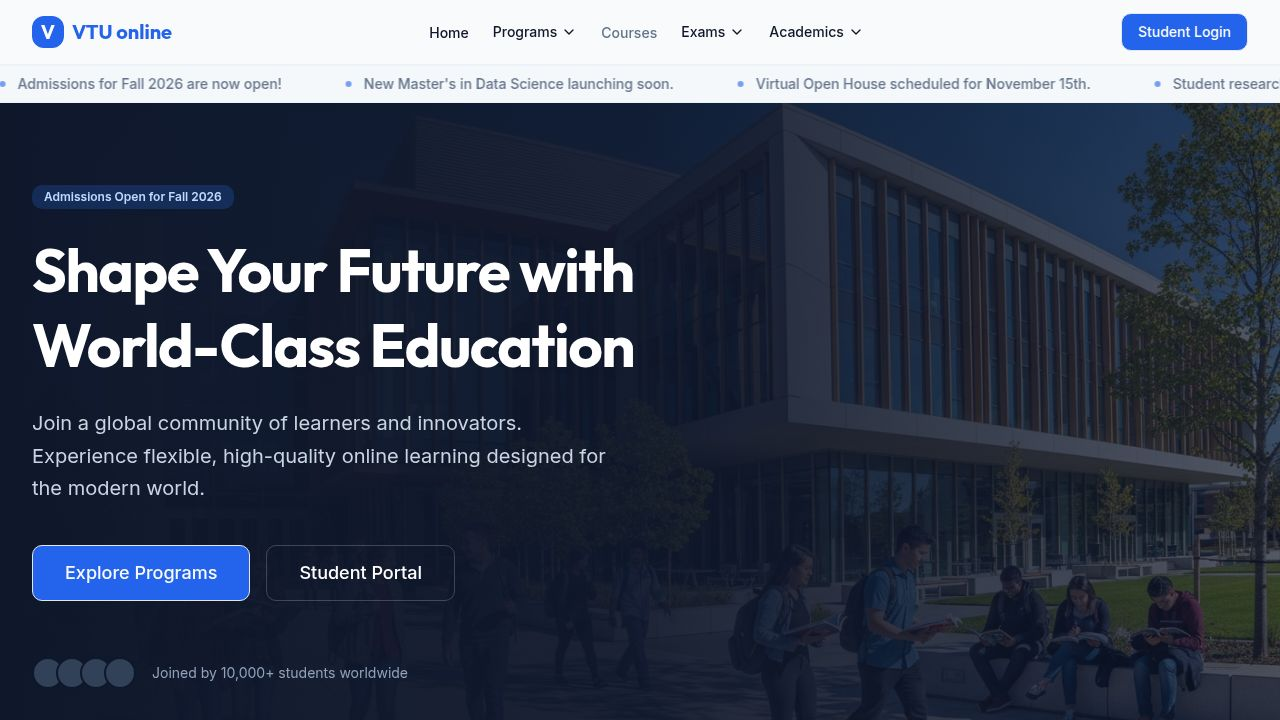
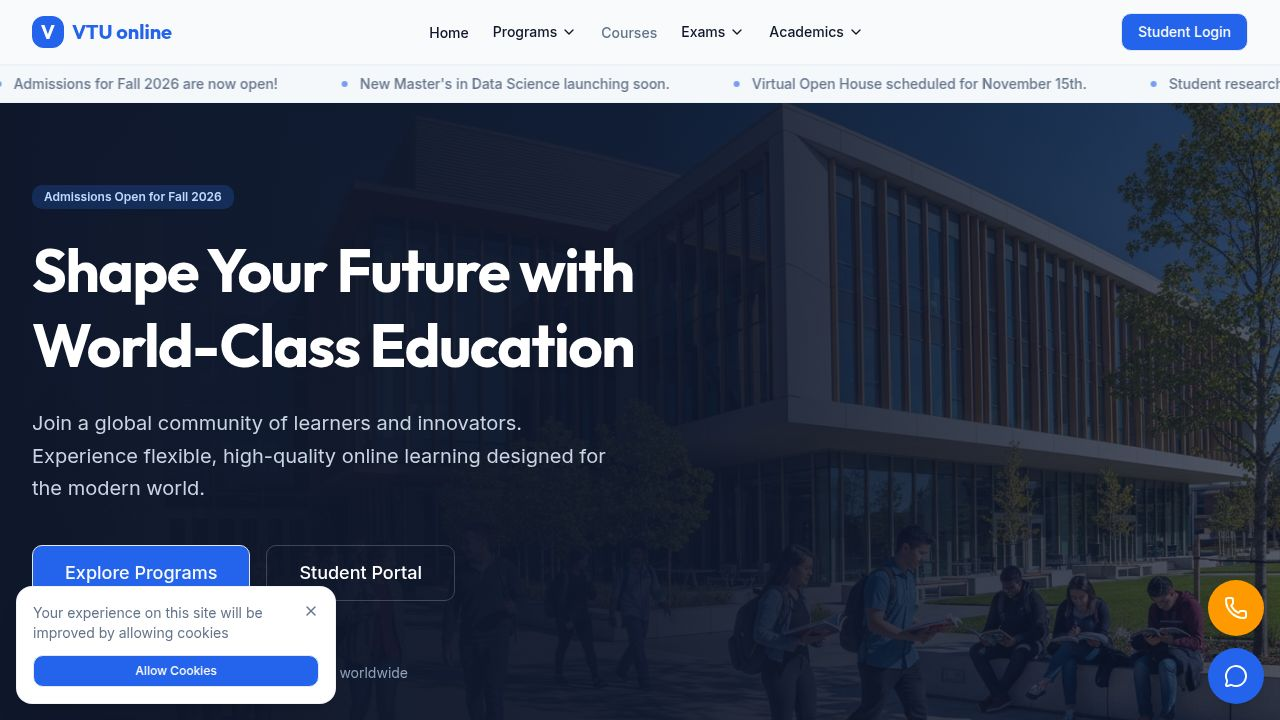
Add interactive floating elements to the landing page
Introduces CookieConsent, FloatingButtons, and ChatWidget components to LandingPage.tsx, enabling cookie management, call/chat buttons, and a functional chat panel with form submission.

Replit-Commit-Author: Agent
Replit-Commit-Session-Id: 80f406d5-0d03-458c-a75a-654c237fc839
Replit-Commit-Checkpoint-Type: full_checkpoint
Replit-Commit-Event-Id: 848407d9-8b96-41d1-af36-81d8fbbae387
Replit-Commit-Screenshot-Url: https://storage.googleapis.com/screenshot-production-us-central1/d19b8a95-6b36-4bbb-87ff-ddd33fc5f158/80f406d5-0d03-458c-a75a-654c237fc839/SRGrVkC
Replit-Helium-Checkpoint-Created: true

diff --git a/client/src/components/floating/ChatWidget.tsx b/client/src/components/floating/ChatWidget.tsx
@@ -1,0 +1,137 @@
+import { useState } from "react";
+import { Button } from "@/components/ui/button";
+import { Input } from "@/components/ui/input";
+import { Textarea } from "@/components/ui/textarea";
+import { X, Send, CheckCircle2 } from "lucide-react";
+
+interface ChatWidgetProps {
+  isOpen: boolean;
+  onClose: () => void;
+}
+
+export default function ChatWidget({ isOpen, onClose }: ChatWidgetProps) {
+  const [formData, setFormData] = useState({ name: "", email: "", message: "" });
+  const [errors, setErrors] = useState<Record<string, string>>({});
+  const [submitted, setSubmitted] = useState(false);
+
+  const validate = () => {
+    const newErrors: Record<string, string> = {};
+    if (!formData.name.trim()) newErrors.name = "Name is required";
+    if (!formData.email.trim()) newErrors.email = "Email is required";
+    else if (!/\S+@\S+\.\S+/.test(formData.email)) newErrors.email = "Invalid email";
+    if (!formData.message.trim()) newErrors.message = "Message is required";
+    setErrors(newErrors);
+    return Object.keys(newErrors).length === 0;
+  };
+
+  const handleSubmit = (e: React.FormEvent) => {
+    e.preventDefault();
+    if (validate()) {
+      setSubmitted(true);
+      setTimeout(() => {
+        setSubmitted(false);
+        setFormData({ name: "", email: "", message: "" });
+      }, 2500);
+    }
+  };
+
+  const handleChange = (e: React.ChangeEvent<HTMLInputElement | HTMLTextAreaElement>) => {
+    const { name, value } = e.target;
+    setFormData(prev => ({ ...prev, [name]: value }));
+    if (errors[name]) {
+      setErrors(prev => ({ ...prev, [name]: "" }));
+    }
+  };
+
+  if (!isOpen) return null;
+
+  return (
+    <div 
+      className="fixed bottom-24 right-4 z-50 w-[340px] max-w-[calc(100vw-2rem)] animate-in slide-in-from-bottom-4 fade-in duration-300"
+      data-testid="chat-widget"
+    >
+      <div className="bg-white dark:bg-slate-800 rounded-2xl shadow-2xl overflow-hidden border border-border/30">
+        {/* Header */}
+        <div className="bg-emerald-600 p-4 relative">
+          <button
+            onClick={onClose}
+            className="absolute top-3 right-3 text-white/80 hover:text-white transition-colors p-1"
+            aria-label="Close chat"
+            data-testid="chat-close"
+          >
+            <X className="size-5" />
+          </button>
+          <p className="text-white text-sm text-center pr-6 leading-relaxed">
+            Please fill out the form below and we will get back to you as soon as possible.
+          </p>
+        </div>
+
+        {/* Form Body */}
+        <div className="p-5">
+          {submitted ? (
+            <div className="text-center py-8 animate-in fade-in zoom-in duration-300">
+              <div className="size-16 rounded-full bg-emerald-100 dark:bg-emerald-900/30 flex items-center justify-center mx-auto mb-4">
+                <CheckCircle2 className="size-8 text-emerald-600" />
+              </div>
+              <h3 className="text-lg font-semibold text-foreground mb-1">Message Sent!</h3>
+              <p className="text-sm text-muted-foreground">We'll get back to you soon.</p>
+            </div>
+          ) : (
+            <form onSubmit={handleSubmit} className="space-y-4">
+              <div>
+                <Input
+                  name="name"
+                  placeholder="Name *"
+                  value={formData.name}
+                  onChange={handleChange}
+                  className={errors.name ? "border-red-500 focus-visible:ring-red-500" : ""}
+                  data-testid="chat-input-name"
+                />
+                {errors.name && <p className="text-xs text-red-500 mt-1">{errors.name}</p>}
+              </div>
+              <div>
+                <Input
+                  name="email"
+                  type="email"
+                  placeholder="Email *"
+                  value={formData.email}
+                  onChange={handleChange}
+                  className={errors.email ? "border-red-500 focus-visible:ring-red-500" : ""}
+                  data-testid="chat-input-email"
+                />
+                {errors.email && <p className="text-xs text-red-500 mt-1">{errors.email}</p>}
+              </div>
+              <div>
+                <Textarea
+                  name="message"
+                  placeholder="Message *"
+                  rows={4}
+                  value={formData.message}
+                  onChange={handleChange}
+                  className={`resize-none ${errors.message ? "border-red-500 focus-visible:ring-red-500" : ""}`}
+                  data-testid="chat-input-message"
+                />
+                {errors.message && <p className="text-xs text-red-500 mt-1">{errors.message}</p>}
+              </div>
+              <Button 
+                type="submit" 
+                className="w-full bg-emerald-600 hover:bg-emerald-700 h-11"
+                data-testid="chat-submit"
+              >
+                <Send className="size-4 mr-2" />
+                Submit
+              </Button>
+            </form>
+          )}
+        </div>
+
+        {/* Footer */}
+        <div className="px-5 pb-4 pt-0">
+          <p className="text-xs text-center text-muted-foreground">
+            Powered by <span className="font-medium">tawk.to</span>
+          </p>
+        </div>
+      </div>
+    </div>
+  );
+}

diff --git a/client/src/components/floating/CookieConsent.tsx b/client/src/components/floating/CookieConsent.tsx
@@ -1,0 +1,58 @@
+import { useState, useEffect } from "react";
+import { Button } from "@/components/ui/button";
+import { X } from "lucide-react";
+
+export default function CookieConsent() {
+  const [visible, setVisible] = useState(false);
+
+  useEffect(() => {
+    const accepted = localStorage.getItem("cookiesAccepted");
+    if (!accepted) {
+      setVisible(true);
+    }
+  }, []);
+
+  const handleAccept = () => {
+    localStorage.setItem("cookiesAccepted", "true");
+    setVisible(false);
+  };
+
+  const handleClose = () => {
+    setVisible(false);
+  };
+
+  if (!visible) return null;
+
+  return (
+    <div 
+      className="fixed bottom-4 left-4 z-50 max-w-xs animate-in slide-in-from-bottom-4 fade-in duration-300"
+      data-testid="cookie-consent"
+    >
+      <div className="bg-white dark:bg-slate-800 rounded-xl shadow-xl border border-border/50 p-4">
+        <div className="flex items-start gap-3">
+          <p className="text-sm text-muted-foreground flex-1">
+            Your experience on this site will be improved by allowing cookies
+          </p>
+          <button
+            onClick={handleClose}
+            className="text-muted-foreground hover:text-foreground transition-colors p-1 -mt-1 -mr-1"
+            aria-label="Close"
+            data-testid="cookie-close"
+          >
+            <X className="size-4" />
+          </button>
+        </div>
+        <div className="mt-3">
+          <Button 
+            onClick={handleAccept} 
+            size="sm" 
+            className="w-full"
+            data-testid="cookie-accept"
+          >
+            Allow Cookies
+          </Button>
+        </div>
+      </div>
+    </div>
+  );
+}

diff --git a/client/src/components/floating/FloatingButtons.tsx b/client/src/components/floating/FloatingButtons.tsx
@@ -1,0 +1,36 @@
+import { Phone, MessageCircle } from "lucide-react";
+
+interface FloatingButtonsProps {
+  onChatClick: () => void;
+  isChatOpen: boolean;
+}
+
+export default function FloatingButtons({ onChatClick, isChatOpen }: FloatingButtonsProps) {
+  return (
+    <div className="fixed bottom-4 right-4 z-50 flex flex-col gap-3" data-testid="floating-buttons">
+      {/* Call Button */}
+      <a
+        href="tel:+919876543210"
+        className="size-14 rounded-full bg-amber-500 hover:bg-amber-600 text-white shadow-lg hover:shadow-xl transition-all duration-200 flex items-center justify-center hover:scale-105"
+        aria-label="Call us"
+        data-testid="floating-call-button"
+      >
+        <Phone className="size-6" />
+      </a>
+
+      {/* Chat Button */}
+      <button
+        onClick={onChatClick}
+        className={`size-14 rounded-full shadow-lg hover:shadow-xl transition-all duration-200 flex items-center justify-center hover:scale-105 ${
+          isChatOpen 
+            ? "bg-primary/90 text-white" 
+            : "bg-primary text-white"
+        }`}
+        aria-label="Open chat"
+        data-testid="floating-chat-button"
+      >
+        <MessageCircle className="size-6" />
+      </button>
+    </div>
+  );
+}

diff --git a/client/src/pages/public/LandingPage.tsx b/client/src/pages/public/LandingPage.tsx
@@ -11,8 +11,12 @@ import {
   CollapsibleContent,
   CollapsibleTrigger,
 } from "@/components/ui/collapsible";
+import CookieConsent from "@/components/floating/CookieConsent";
+import FloatingButtons from "@/components/floating/FloatingButtons";
+import ChatWidget from "@/components/floating/ChatWidget";
 
 export default function LandingPage() {
+  const [isChatOpen, setIsChatOpen] = useState(false);
   const examCirculars = [
     { title: "Final Semester Exam Schedule Declared", date: "Oct 24, 2025", isNew: true },
     { title: "Hall Ticket Download Instructions", date: "Oct 20, 2025", isNew: true },
@@ -289,6 +293,11 @@ export default function LandingPage() {
            </div>
          </div>
       </section>
+
+      {/* Floating Components */}
+      <CookieConsent />
+      <FloatingButtons onChatClick={() => setIsChatOpen(!isChatOpen)} isChatOpen={isChatOpen} />
+      <ChatWidget isOpen={isChatOpen} onClose={() => setIsChatOpen(false)} />
     </div>
   );
 }
